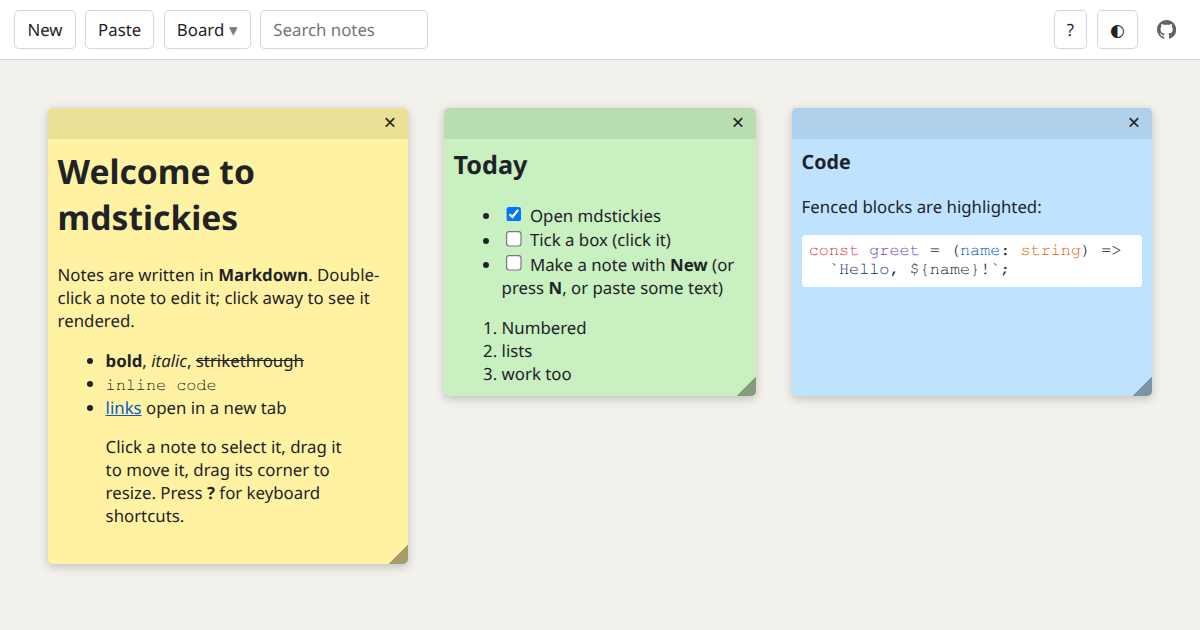
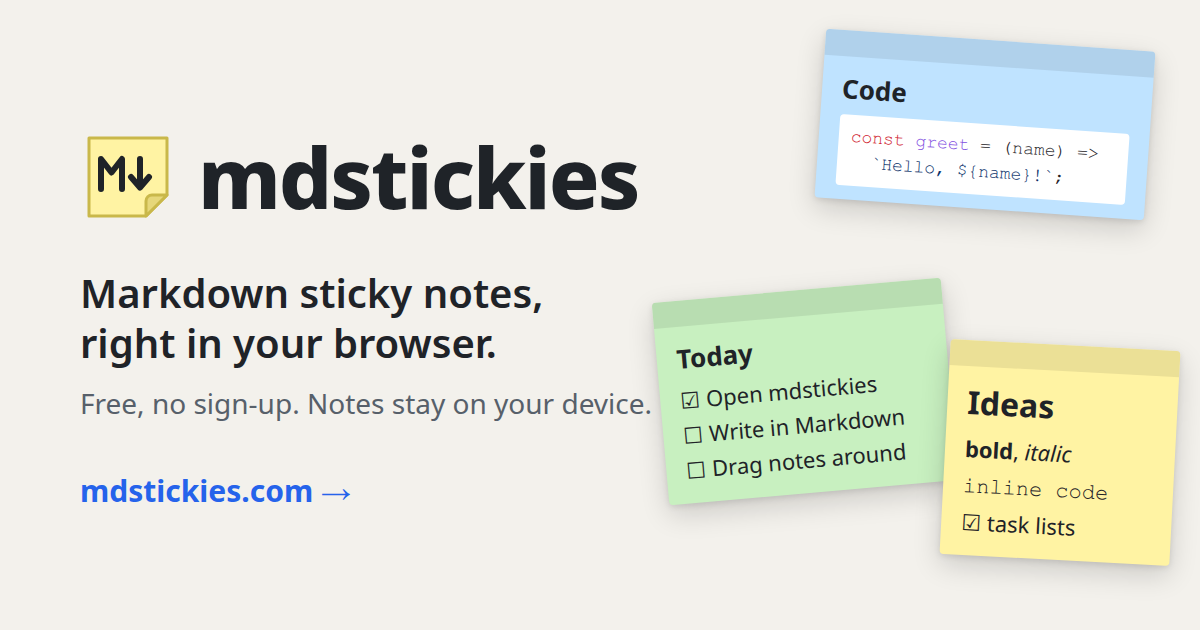
feat: designed link-preview card with name, tagline and URL
Replaces the bare app screenshot with a card that says what mdstickies
is. og/card.html is the source; it is screenshotted at 1200x630.

diff --git a/og/card.html b/og/card.html
@@ -1,0 +1,91 @@
+<!doctype html>
+<!--
+  Source for public/og-image.png, the link-preview card.
+  Regenerate with a headless Chromium at 1200×630, for example:
+    chrome-headless-shell --hide-scrollbars --window-size=1200,630 --screenshot=public/og-image.png og/card.html
+-->
+<html lang="en">
+  <head>
+    <meta charset="UTF-8" />
+    <style>
+      * { box-sizing: border-box; }
+      html, body { margin: 0; width: 1200px; height: 630px; overflow: hidden; }
+      body {
+        background: #f3f1ec;
+        color: #1f2328;
+        font-family: system-ui, -apple-system, 'Segoe UI', sans-serif;
+        position: relative;
+      }
+      .text { position: absolute; left: 80px; top: 0; bottom: 0; width: 600px; display: flex; flex-direction: column; justify-content: center; }
+      .brand { display: flex; align-items: center; gap: 22px; }
+      .brand img { width: 96px; height: 96px; }
+      .brand h1 { margin: 0; font-size: 84px; letter-spacing: -2px; font-weight: 800; }
+      .tagline { margin: 34px 0 0; font-size: 40px; line-height: 1.25; font-weight: 600; }
+      .sub { margin: 16px 0 0; font-size: 28px; color: #57606a; }
+      .url { margin-top: 48px; font-size: 30px; font-weight: 700; color: #2563eb; }
+
+      .note {
+        position: absolute; border-radius: 4px; overflow: hidden;
+        box-shadow: 0 10px 28px rgba(0, 0, 0, 0.16), 0 2px 6px rgba(0, 0, 0, 0.1);
+        font-size: 22px; line-height: 1.4;
+      }
+      .note .bar { height: 26px; background: rgba(0, 0, 0, 0.08); }
+      .note .body { padding: 14px 20px; }
+      .note h2 { margin: 0 0 8px; font-size: 32px; }
+      .note h3 { margin: 0 0 8px; font-size: 26px; }
+      .note ul { margin: 0; padding-left: 0; list-style: none; }
+      .note li { margin: 4px 0; }
+      .note code, .note pre { font-family: ui-monospace, 'SF Mono', Menlo, monospace; }
+      .note pre { margin: 8px 0 0; padding: 10px 12px; background: #fff; border-radius: 4px; font-size: 18px; }
+      .k { color: #cf222e; } .f { color: #8250df; } .s { color: #0a3069; }
+
+      .yellow { background: #fff3a3; }
+      .green { background: #c8f0c0; }
+      .blue { background: #bfe3ff; }
+    </style>
+  </head>
+  <body>
+    <div class="text">
+      <div class="brand">
+        <img src="../public/favicon.svg" alt="" />
+        <h1>mdstickies</h1>
+      </div>
+      <p class="tagline">Markdown sticky notes,<br />right in your browser.</p>
+      <p class="sub">Free, no sign-up. Notes stay on your device.</p>
+      <div class="url">mdstickies.com →</div>
+    </div>
+
+    <div class="note blue" style="left: 820px; top: 40px; width: 330px; transform: rotate(4deg)">
+      <div class="bar"></div>
+      <div class="body">
+        <h3>Code</h3>
+        <pre><span class="k">const</span> <span class="f">greet</span> = (name) =>
+  <span class="s">`Hello, ${name}!`</span>;</pre>
+      </div>
+    </div>
+
+    <div class="note green" style="left: 660px; top: 290px; width: 290px; transform: rotate(-5deg)">
+      <div class="bar"></div>
+      <div class="body">
+        <h3>Today</h3>
+        <ul>
+          <li>☑ Open mdstickies</li>
+          <li>☐ Write in Markdown</li>
+          <li>☐ Drag notes around</li>
+        </ul>
+      </div>
+    </div>
+
+    <div class="note yellow" style="left: 945px; top: 345px; width: 230px; transform: rotate(3deg)">
+      <div class="bar"></div>
+      <div class="body">
+        <h2>Ideas</h2>
+        <ul>
+          <li><b>bold</b>, <i>italic</i></li>
+          <li><code>inline code</code></li>
+          <li>☑ task lists</li>
+        </ul>
+      </div>
+    </div>
+  </body>
+</html>

diff --git a/index.html b/index.html
@@ -21,7 +21,7 @@
     <meta property="og:image" content="https://mdstickies.com/og-image.png" />
     <meta property="og:image:width" content="1200" />
     <meta property="og:image:height" content="630" />
-    <meta property="og:image:alt" content="Three Markdown sticky notes on the mdstickies board" />
+    <meta property="og:image:alt" content="mdstickies: Markdown sticky notes, right in your browser" />
     <meta name="twitter:card" content="summary_large_image" />
     <script>
       // Mirrors ThemeControl (src/ui/theme.ts) so a dark board doesn't flash white while the app loads.
